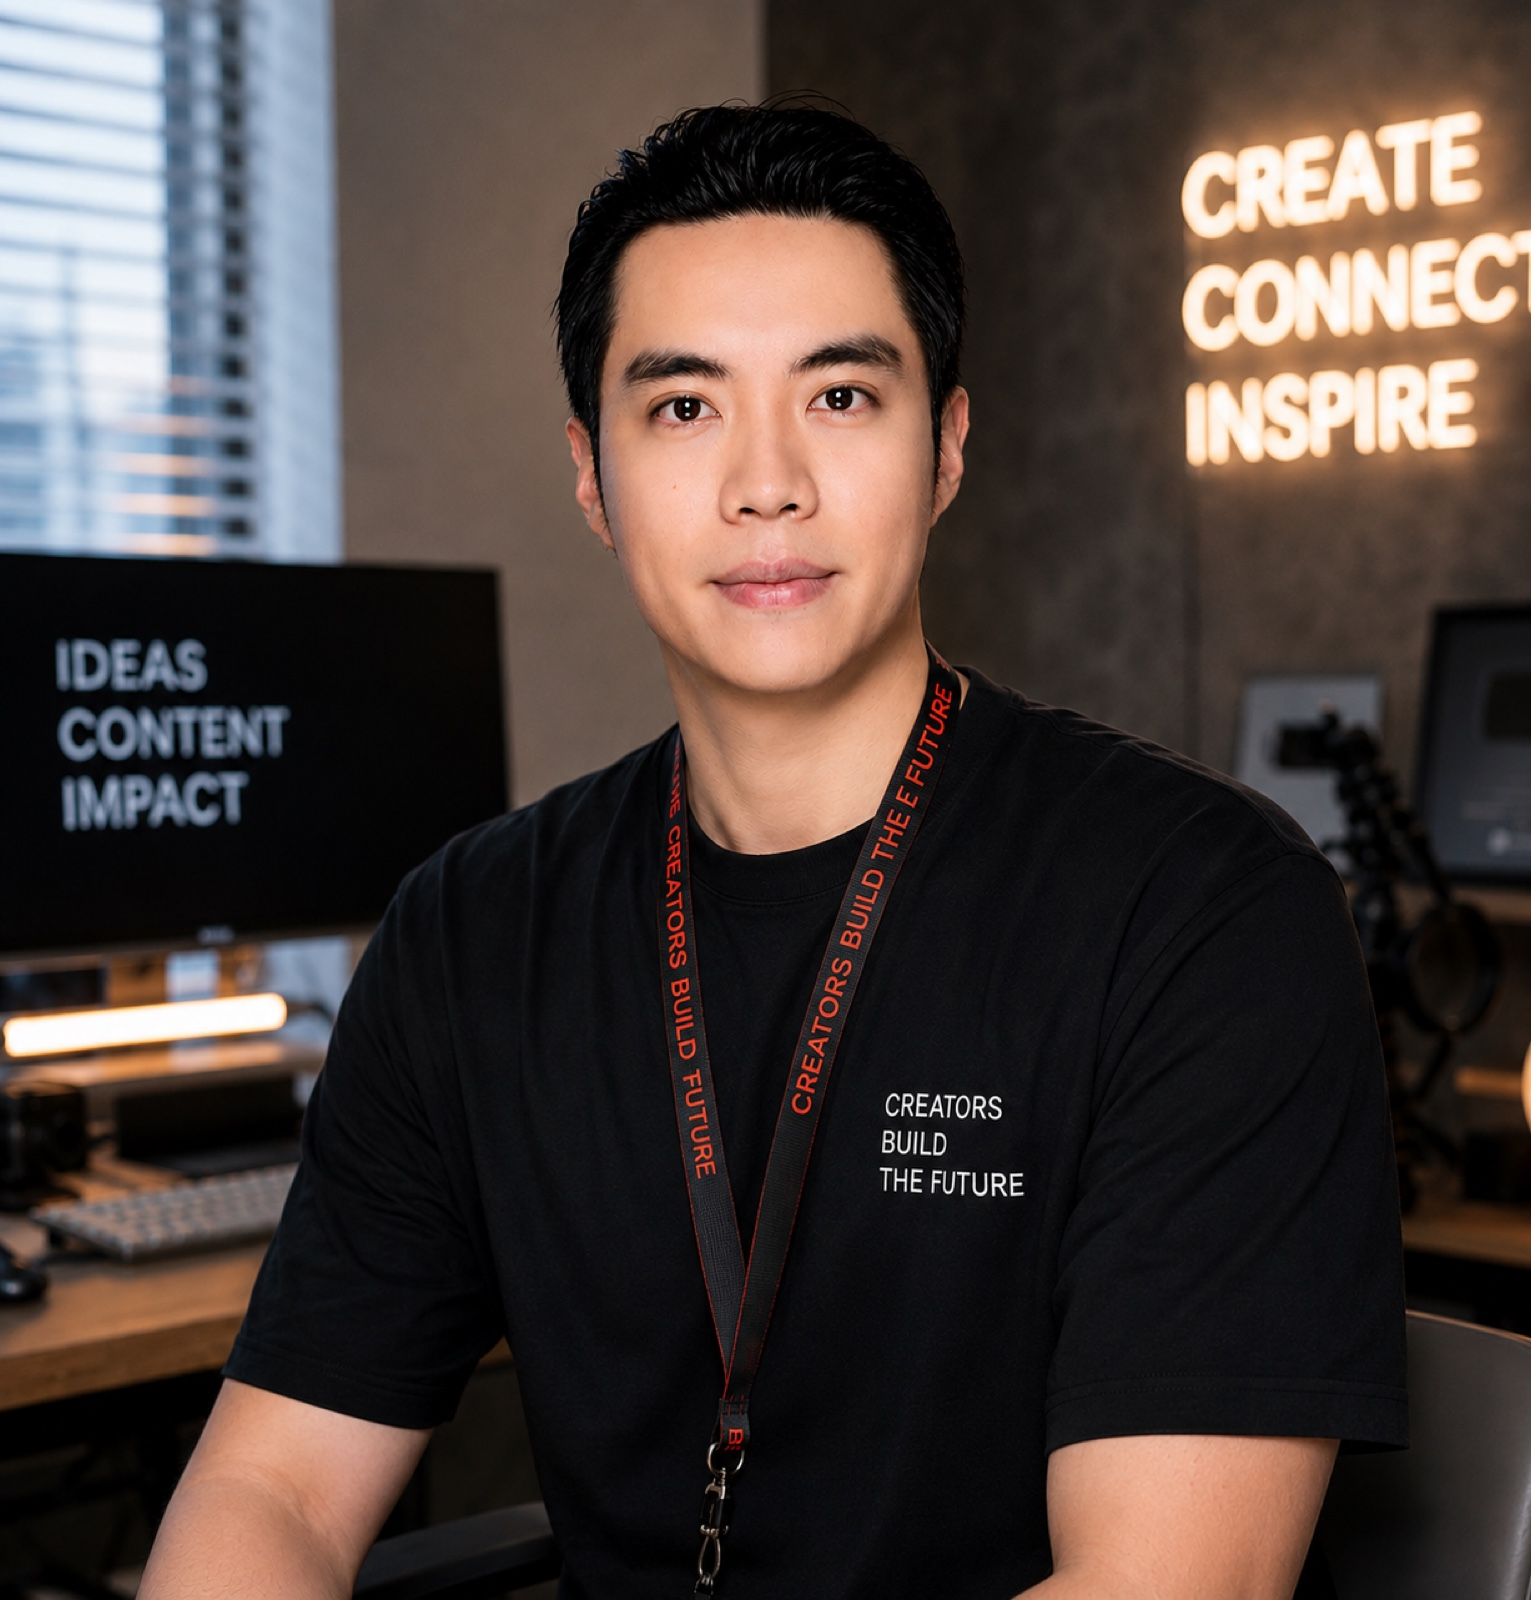
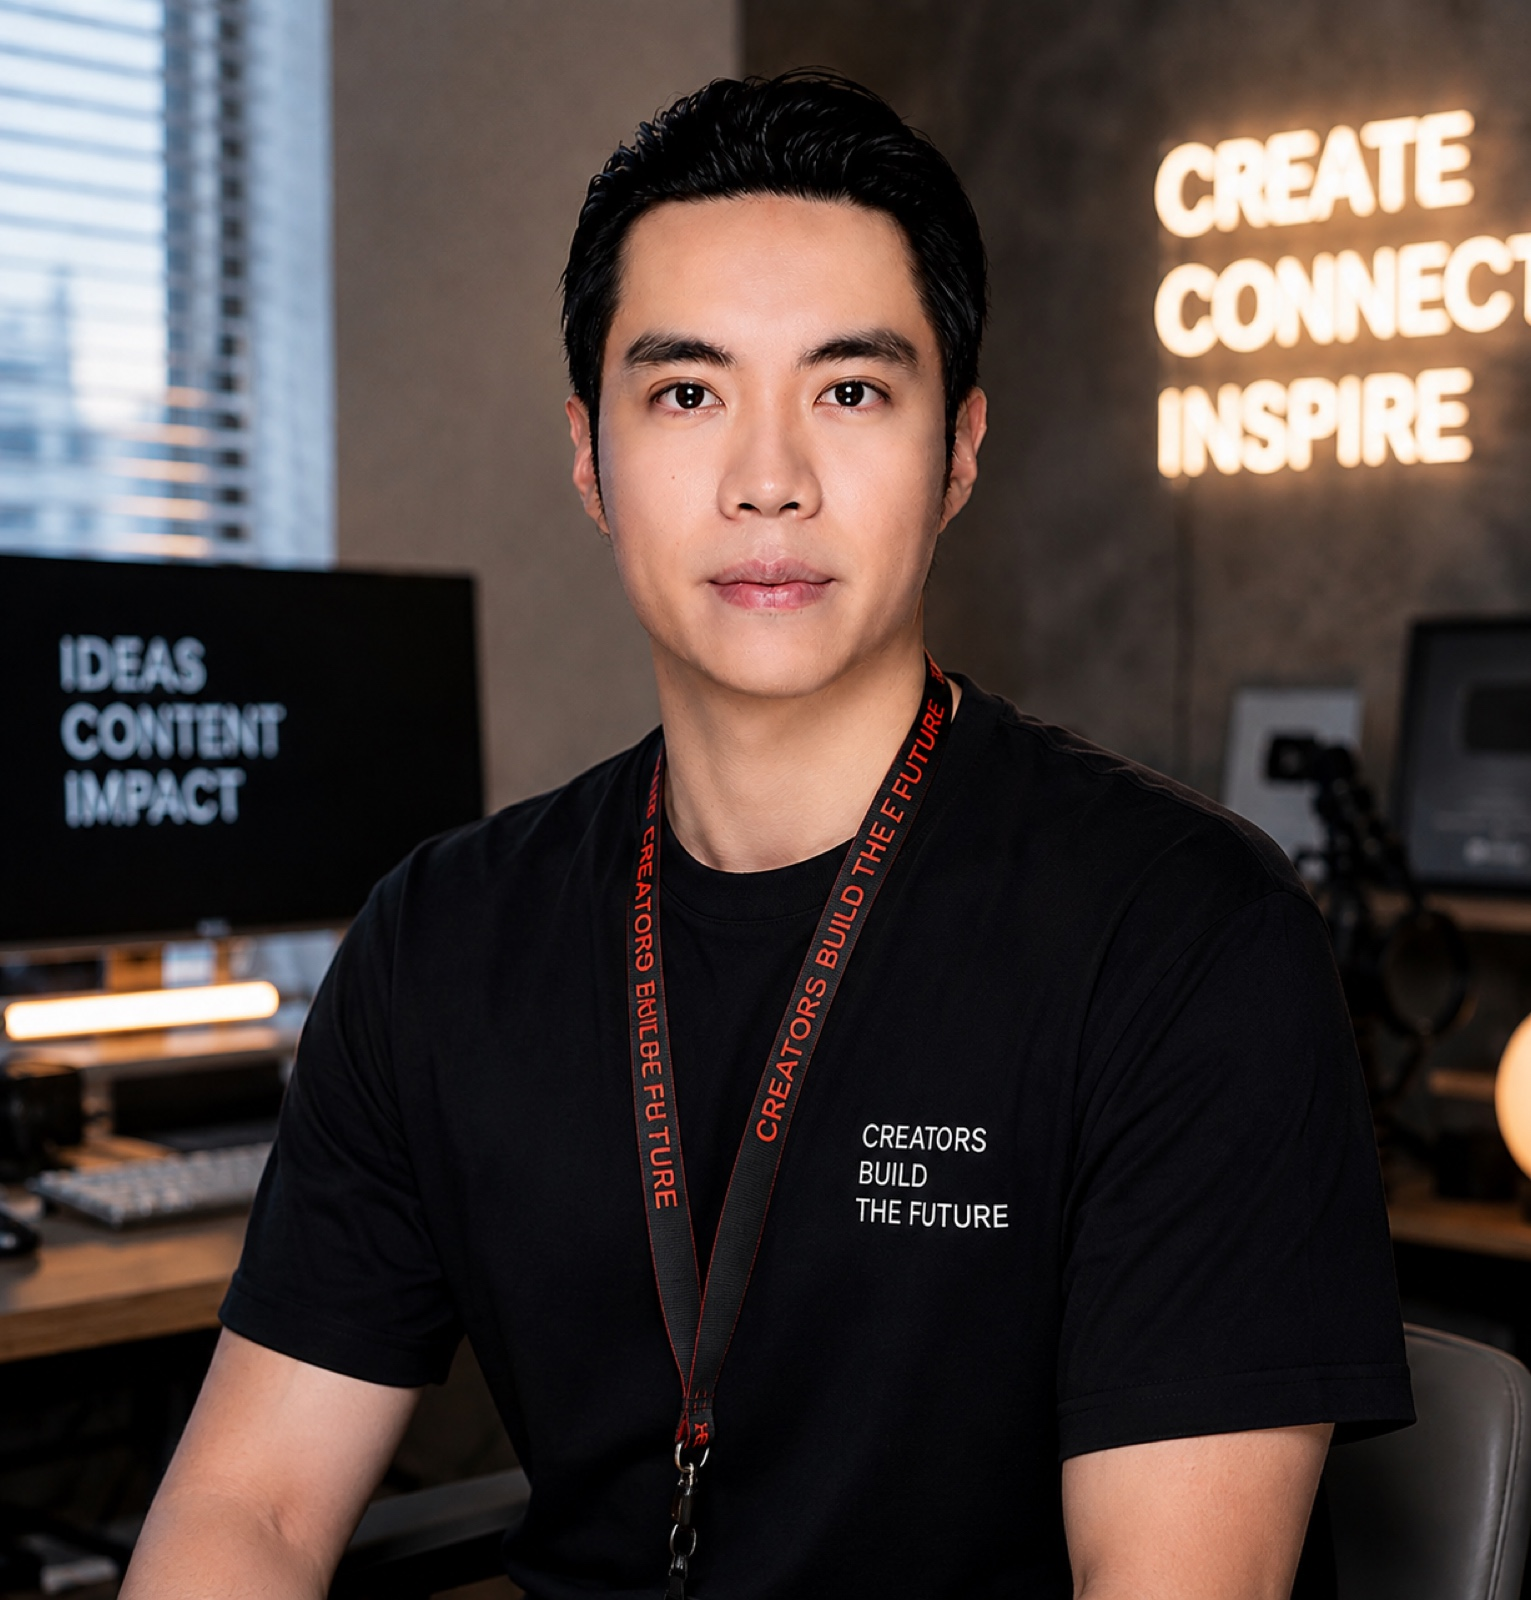
Rewrite hero pitch, swap portrait, remove stat chips, add gentle motion
- Hero pitch (VI/EN) now tells the accurate origin story: leading the
  Highnoy Parkour team through live brand campaign performances, then
  directing content strategy for 100+ creators/artists at METUB —
  replaces the overstated "directing multi-channel content strategy
  for brands" framing the client flagged as too grandiose.
- Portrait swapped to a fresh shot from the same creator-studio shoot
  (2.png).
- Removed the floating "4.6M subs" / "105B+ box office" stat chips
  overlaid on the hero portrait — cleaner frame, numbers already live
  in the stats band below.
- Added a slow, subtle float-soft animation on the portrait frame for
  gentle ambient motion.

diff --git a/lib/content.ts b/lib/content.ts
@@ -98,7 +98,7 @@ export const content: Record<"vi" | "en", LangContent> = {
       roleLine1: "Kiến tạo hệ sinh thái nội dung",
       roleLine2: "từ con số 0 đến hàng tỷ lượt xem.",
       pitch:
-        "Chuyên gia tư vấn chiến lược nội dung số & kiến tạo mạng lưới Creators, với 12 năm trực tiếp xây dựng, thương mại hóa và mở rộng các hệ sinh thái sáng tạo — từ cộng đồng Parkour lớn nhất Việt Nam đến vai trò định hướng phát triển nội dung đa kênh cho các thương hiệu hàng đầu như Techcombank, Nike, Samsung.",
+        "Chuyên gia tư vấn chiến lược nội dung số & kiến tạo mạng lưới Creators, với 12 năm xây dựng và mở rộng các hệ sinh thái sáng tạo — từ đội hình Highnoy Parkour tiên phong, trực tiếp dẫn dắt anh em nghệ sĩ bước lên sân khấu trong các chiến dịch của Techcombank, Nike, Samsung, đến vai trò định hướng nội dung cho hơn 100 nhà sáng tạo và nghệ sĩ tại METUB.",
       ctaPrimary: "Xem dự án tiêu biểu",
       ctaSecondary: "Trao đổi hợp tác",
       credential: "Director of Communications & Partnerships",
@@ -434,7 +434,7 @@ export const content: Record<"vi" | "en", LangContent> = {
       roleLine1: "Building content ecosystems",
       roleLine2: "from zero to billions of views.",
       pitch:
-        "A content strategy consultant and creator-network architect with 12 years spent founding, monetizing, and scaling digital ecosystems — from Vietnam's largest street-sports community to directing multi-channel content strategy for leading brands like Techcombank, Nike, and Samsung.",
+        "A content strategy consultant and creator-network architect with 12 years spent building and scaling digital ecosystems — from leading the pioneering Highnoy Parkour team through live performances in campaigns for Techcombank, Nike, and Samsung, to directing content strategy for 100+ creators and artists at METUB.",
       ctaPrimary: "View selected work",
       ctaSecondary: "Start a conversation",
       credential: "Director of Communications & Partnerships",

diff --git a/components/Hero.tsx b/components/Hero.tsx
@@ -94,7 +94,7 @@ export default function Hero() {
           className="relative mx-auto aspect-[4/5] w-full max-w-sm"
         >
           <div className="animate-float absolute -inset-4 rounded-[2.5rem] bg-gradient-to-br from-violet-500/70 via-magenta/50 to-gold/50 blur-3xl" />
-          <div className="relative h-full w-full rounded-[2rem] bg-gradient-to-br from-violet-300 via-magenta to-gold p-[3px] shadow-[0_0_60px_rgba(226,84,201,0.35)]">
+          <div className="animate-float-soft relative h-full w-full rounded-[2rem] bg-gradient-to-br from-violet-300 via-magenta to-gold p-[3px] shadow-[0_0_60px_rgba(226,84,201,0.35)]">
             <div className="relative h-full w-full overflow-hidden rounded-[calc(2rem-3px)] bg-bg">
               <Image
                 src="/images/portrait.jpg"
@@ -109,26 +109,6 @@ export default function Hero() {
               <div className="absolute inset-0 bg-[radial-gradient(circle_at_82%_15%,rgba(232,193,101,0.22),transparent_35%)] mix-blend-screen" />
             </div>
           </div>
-
-          <motion.div
-            initial={{ opacity: 0, x: -12 }}
-            animate={{ opacity: 1, x: 0 }}
-            transition={{ duration: 0.6, delay: 0.7 }}
-            className="glass-card animate-float absolute -left-8 top-8 rounded-2xl px-4 py-3 [animation-delay:1s]"
-          >
-            <p className="font-display text-2xl font-bold text-gradient-violet">4.6M</p>
-            <p className="text-[10px] uppercase tracking-[0.15em] text-ink-faint">YouTube subs</p>
-          </motion.div>
-
-          <motion.div
-            initial={{ opacity: 0, x: 12 }}
-            animate={{ opacity: 1, x: 0 }}
-            transition={{ duration: 0.6, delay: 0.85 }}
-            className="glass-card animate-float absolute -right-6 bottom-16 rounded-2xl px-4 py-3 [animation-delay:2.2s]"
-          >
-            <p className="font-display text-2xl font-bold text-gradient-violet">105B+</p>
-            <p className="text-[10px] uppercase tracking-[0.15em] text-ink-faint">VNĐ box office</p>
-          </motion.div>
         </motion.div>
       </div>
 

diff --git a/app/globals.css b/app/globals.css
@@ -28,6 +28,7 @@
 
   --animate-marquee: marquee 32s linear infinite;
   --animate-float: float 7s ease-in-out infinite;
+  --animate-float-soft: float-soft 9s ease-in-out infinite;
   --animate-pulse-slow: pulse-slow 4s ease-in-out infinite;
 }
 
@@ -184,6 +185,16 @@ body {
   }
   50% {
     transform: translateY(-14px);
+  }
+}
+
+@keyframes float-soft {
+  0%,
+  100% {
+    transform: translateY(0px) scale(1);
+  }
+  50% {
+    transform: translateY(-6px) scale(1.008);
   }
 }
 
